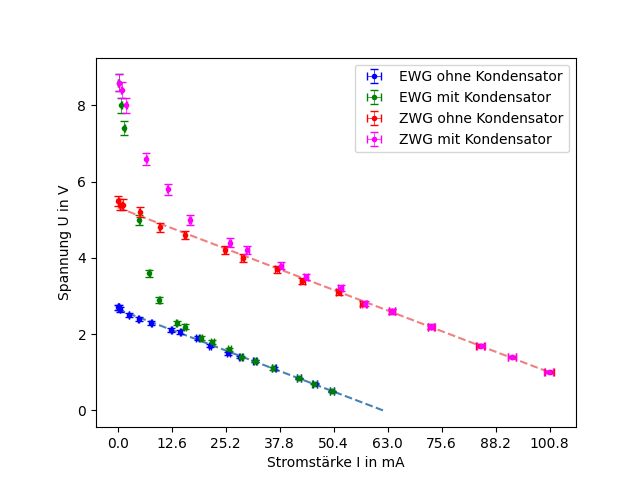
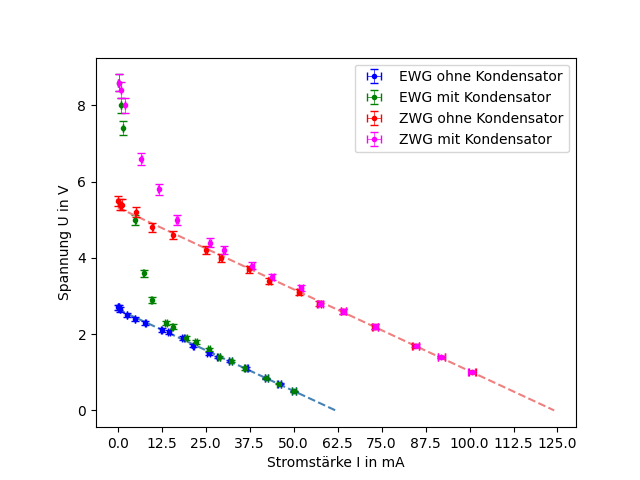
added max_x_ticks parameter to errorbarplot

diff --git a/IMP_utils_py/physics/plotting.py b/IMP_utils_py/physics/plotting.py
@@ -37,7 +37,7 @@ def read_data(data_path: str) -> pd.DataFrame:
 
 ### command functions
 @gin.configurable
-def errorbar_plot(data_path: str, graphic_path: str, x_column: Union[str, list], x_error_column: Union[str, list], y_column: Union[str, list], y_plot_label: Union[str, list], y_error_column: Union[str, list], title: str, x_label: str, y_label: str, x_ticks_number: int, model_type: Union[str, list]):
+def errorbar_plot(data_path: str, graphic_path: str, x_column: Union[str, list], x_error_column: Union[str, list], y_column: Union[str, list], y_plot_label: Union[str, list], y_error_column: Union[str, list], title: str, x_label: str, y_label: str, x_ticks_number: int, max_x_ticks: Union[str, float, int], model_type: Union[str, list]):
     """
     @params (str or list[str]):
         x_column: column name for x values
@@ -46,6 +46,7 @@ def errorbar_plot(data_path: str, graphic_path: str, x_column: Union[str, list],
         y_plot_label: label for y-plot
         y_error_column: column name for y value errors
         model_type: 'linear' (y = m*x + n) / 'linear_zero' (y = m*x) / 'constant' (y = n) / 'none' (no model will be shown)
+        max_x_ticks: 'auto' or float/int
 
     @output:
         plot saved in graphic_path and errors in console
@@ -78,12 +79,20 @@ def errorbar_plot(data_path: str, graphic_path: str, x_column: Union[str, list],
         x_error_column = [x_error_column]
 
     # max value on x-axes
-    max_length = 0
-    for x_col in x_column:
-        x = data[x_col]
-        max_length_x = int(np.ceil(max(x)*10))/10
-        if max_length_x > max_length:
-            max_length = max_length_x
+    if max_x_ticks == "auto":
+        max_length = 0
+        for x_col in x_column:
+            x = data[x_col]
+            max_length_x = int(np.ceil(max(x)*10))/10
+            if max_length_x > max_length:
+                max_length = max_length_x
+    elif type(max_x_ticks) == float or type(max_x_ticks) == int:
+        # check if max_x_ticks > 0
+        if max_x_ticks <= 0:
+            raise ValueError(f"max_x_ticks has to be greater 0, but {max_x_ticks} <= 0")
+        max_length = max_x_ticks
+    else:
+        raise ValueError(f"max_x_ticks has to be 'auto' or float/int greater 0 (found: {max_x_ticks} with type {type(max_x_ticks)})")
 
     # if 1 x-value and multiple y-values
     if len(x_column) == len(x_error_column) == 1 and len(y_column) > 1:

diff --git a/readme_files/plotting.md b/readme_files/plotting.md
@@ -64,6 +64,10 @@ Run the following commands in the terminal (current working directory: `IMP-util
 - ERRORBAR_PLOT_XTICKS_NUMBER: number of ticks on x axes *(has sometimes to be adjusted a bit for a better laylout)*
   - `integer`
 
+- ERRORBAR_PLOT_MAX_XTICKS: max value of ticks on x axes
+  - `string` if ERRORBAR_PLOT_MAX_XTICKS='auto', the max tick will be the rounded max x value from the data
+  - `float`/`integer` e.g. 125 or 0.65
+
 ### function parameter
 
 - ERRORBAR_PLOT_MODEL: choose the model for the linear fit
@@ -103,6 +107,7 @@ ERRORBAR_PLOT_TITLE = ""
 ERRORBAR_PLOT_XLABEL = "Druck p in Bar"
 ERRORBAR_PLOT_YLABEL = "Volumen V in $cm^3$"
 ERRORBAR_PLOT_XTICKS_NUMBER = 8
+ERRORBAR_PLOT_MAX_XTICKS = "auto"
 ERRORBAR_PLOT_PLOTLABELS = ""
 ERRORBAR_PLOT_MODEL = "none"
 ```
@@ -127,6 +132,7 @@ ERRORBAR_PLOT_TITLE = ""
 ERRORBAR_PLOT_XLABEL = "korrigierte Volumen $V_{korr}$ in $cm^3$"
 ERRORBAR_PLOT_YLABEL = "korrigierter Volumen-Druck $pV_{korr}$ in Bar$\cdot cm^3$"
 ERRORBAR_PLOT_XTICKS_NUMBER = 8
+ERRORBAR_PLOT_MAX_XTICKS = "auto"
 ERRORBAR_PLOT_PLOTLABELS = ""
 ERRORBAR_PLOT_MODEL = "constant"
 ```
@@ -151,6 +157,7 @@ ERRORBAR_PLOT_TITLE = ""
 ERRORBAR_PLOT_XLABEL = "k"
 ERRORBAR_PLOT_YLABEL = "$r_k^2$ in $mm^2$"
 ERRORBAR_PLOT_XTICKS_NUMBER = 8
+ERRORBAR_PLOT_MAX_XTICKS = "auto"
 ERRORBAR_PLOT_PLOTLABELS = ""
 ERRORBAR_PLOT_MODEL = "linear"
 ```
@@ -175,6 +182,7 @@ ERRORBAR_PLOT_TITLE = ""
 ERRORBAR_PLOT_XLABEL = "n"
 ERRORBAR_PLOT_YLABEL = "Frequenzen $f_n$ in Hz für 1kg/2kg/3kg"
 ERRORBAR_PLOT_XTICKS_NUMBER = 8
+ERRORBAR_PLOT_MAX_XTICKS = "auto"
 ERRORBAR_PLOT_PLOTLABELS = ["1kg", "2kg", "3kg"]
 ERRORBAR_PLOT_MODEL = "linear"
 ```
@@ -198,7 +206,8 @@ ERRORBAR_PLOT_Y_ERROR_COLUMN = ["u_U_EoK", "u_U_EmK", "u_U_ZoK", "u_U_ZmK"]
 ERRORBAR_PLOT_TITLE = ""
 ERRORBAR_PLOT_XLABEL = r"Stromstärke I in mA"
 ERRORBAR_PLOT_YLABEL = r"Spannung U in V"
-ERRORBAR_PLOT_XTICKS_NUMBER = 9
+ERRORBAR_PLOT_XTICKS_NUMBER = 11
+ERRORBAR_PLOT_MAX_XTICKS = 125
 ERRORBAR_PLOT_PLOTLABELS = ["EWG ohne Kondensator", "EWG mit Kondensator", "ZWG ohne Kondensator", "ZWG mit Kondensator"]
 ERRORBAR_PLOT_MODEL = ["linear", "none", "linear", "none"]
 ```
